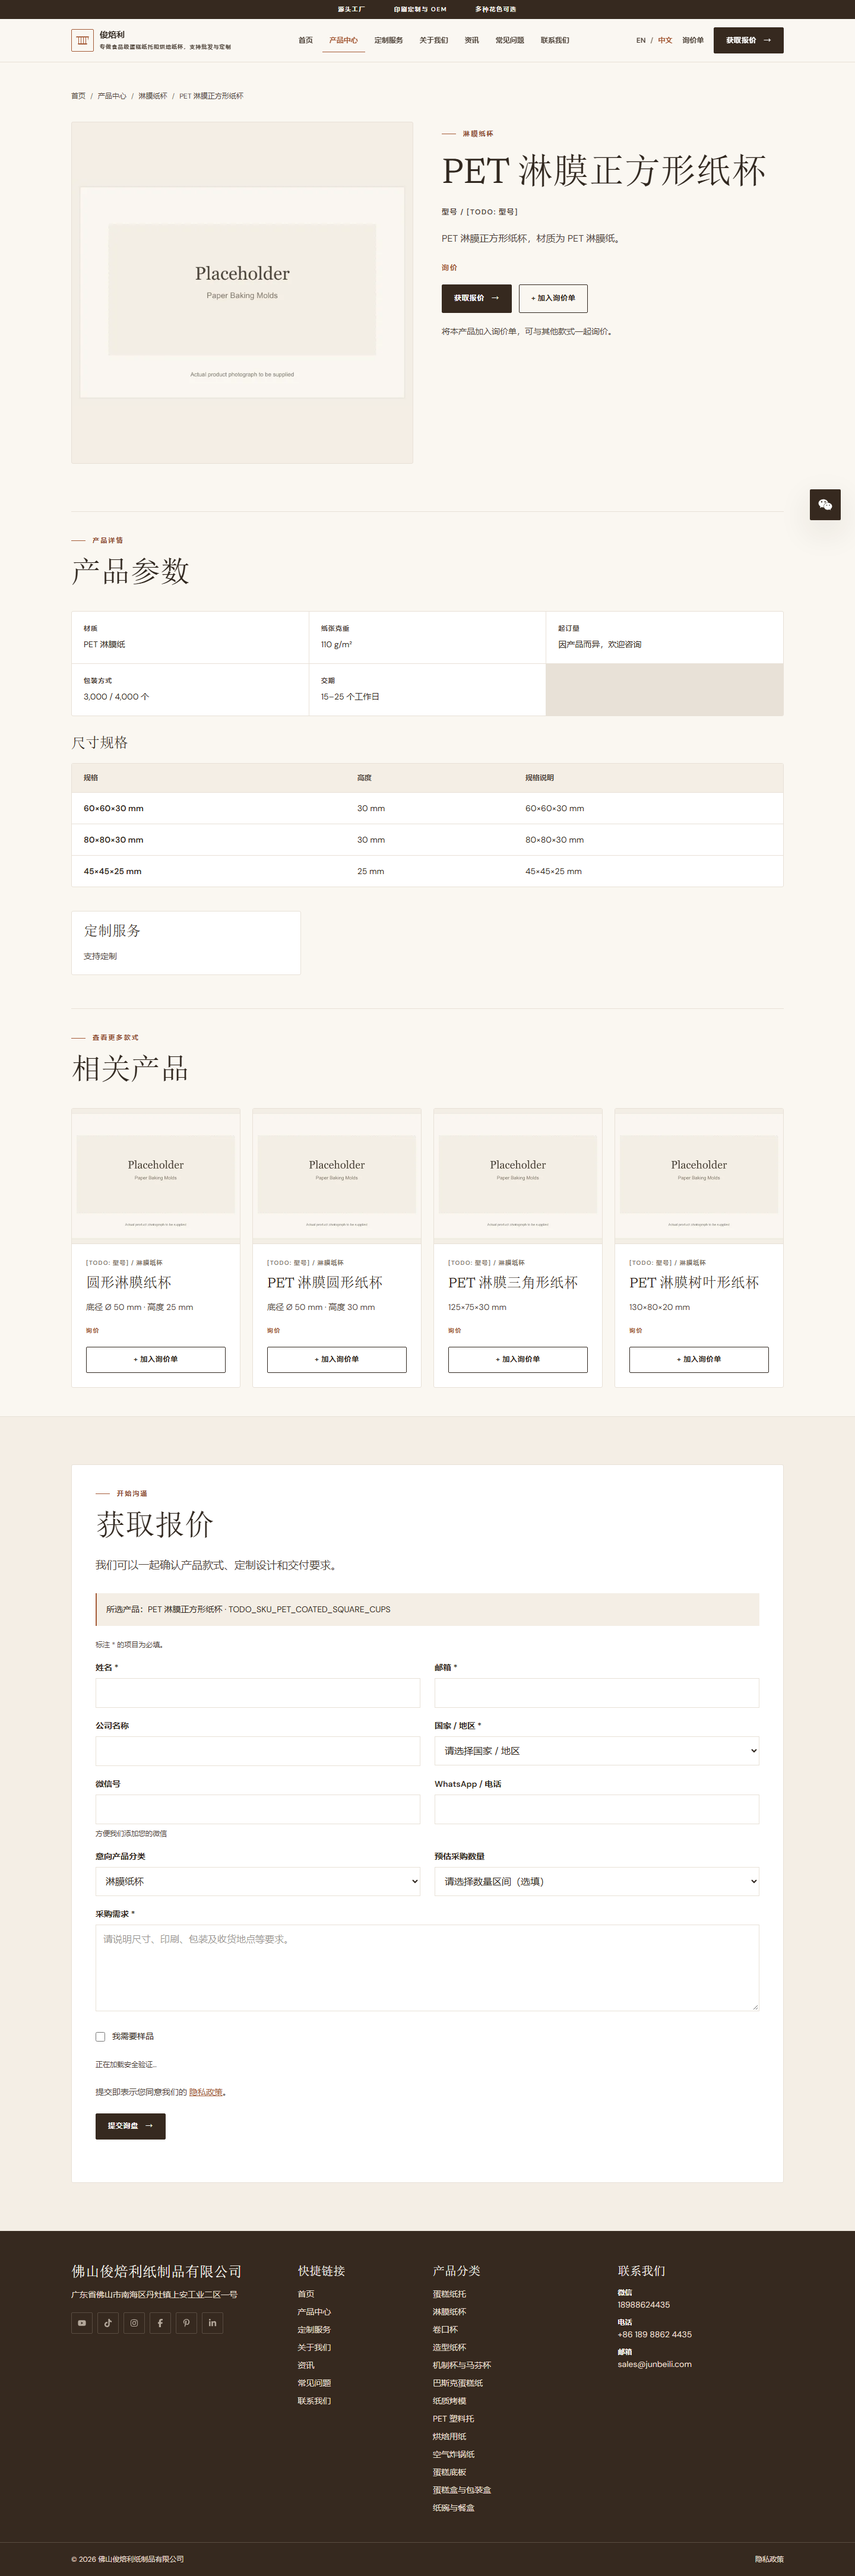
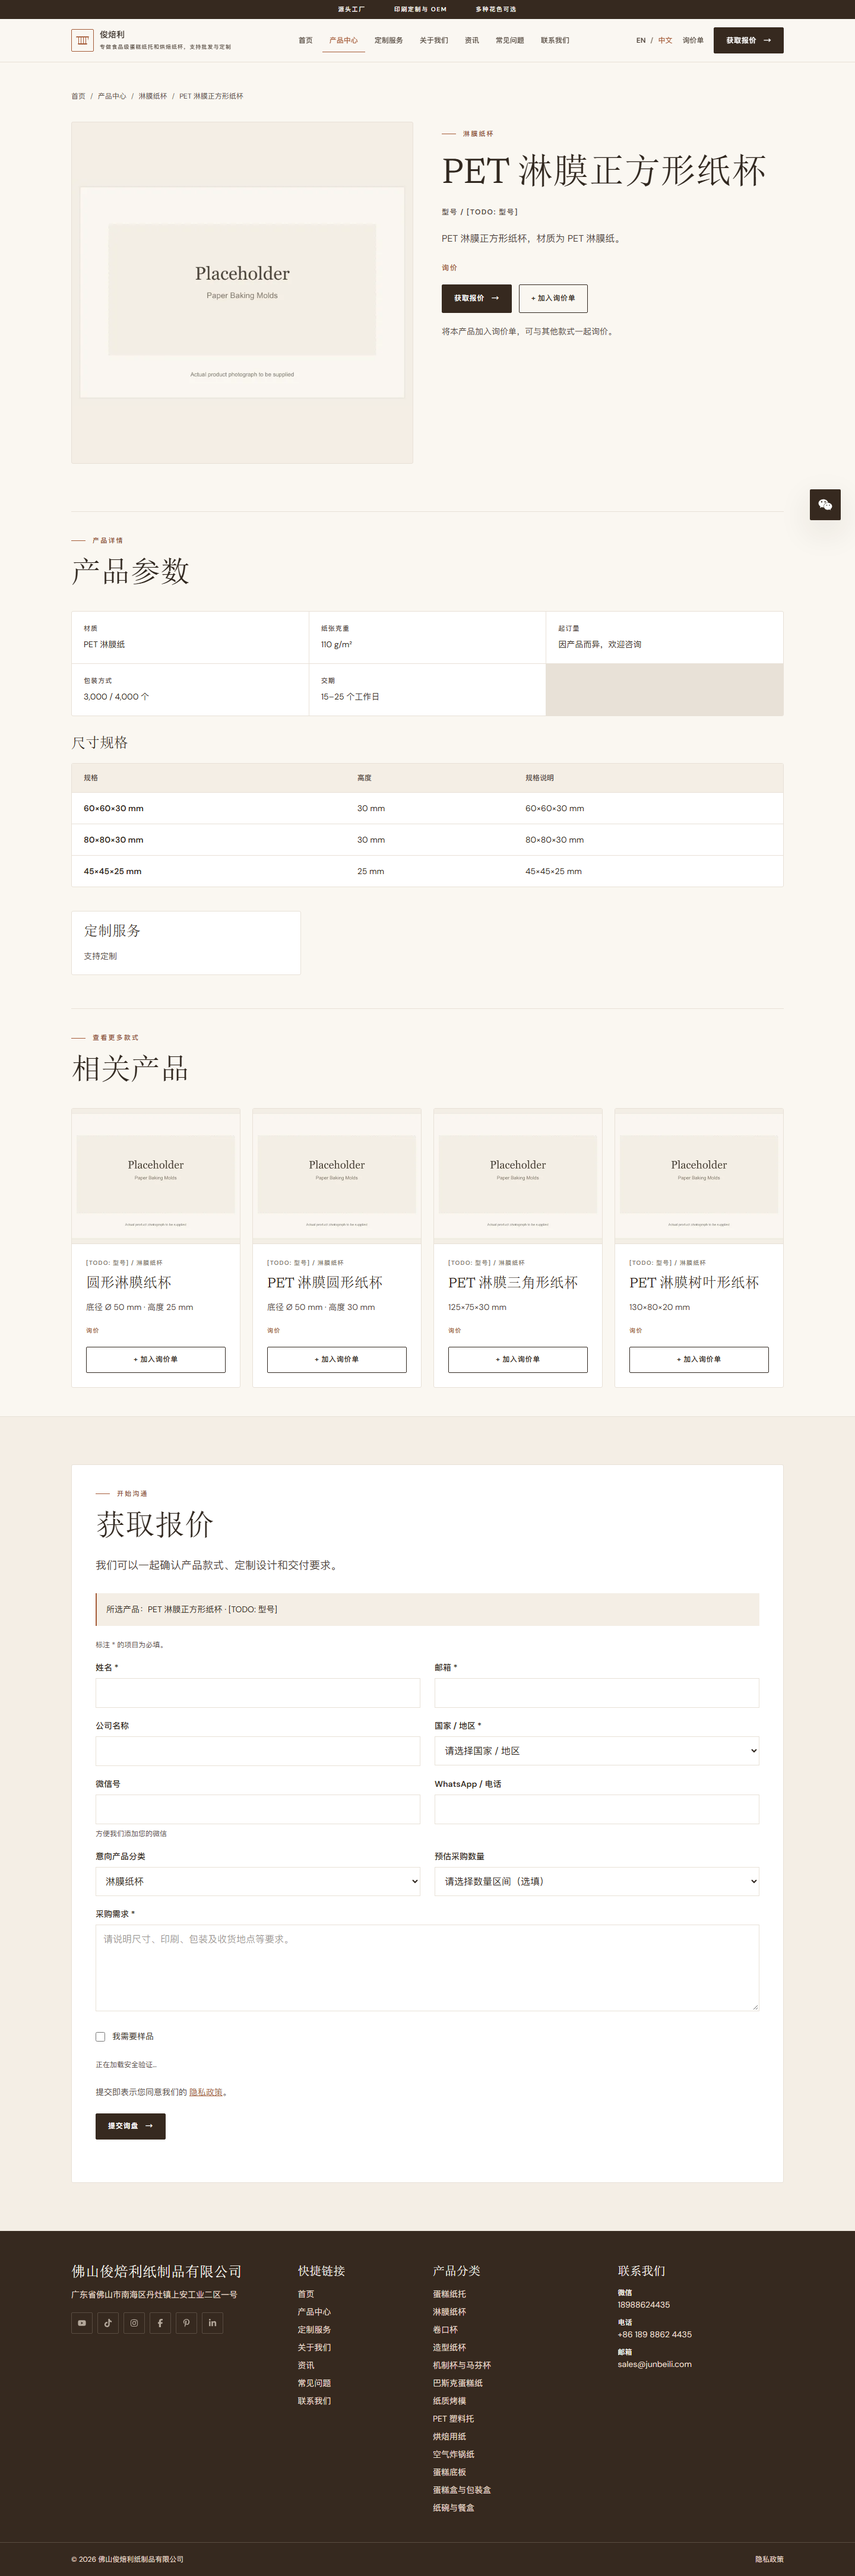
docs: record M9 Workers preview and review screenshots

diff --git a/docs/reviews/M9.md b/docs/reviews/M9.md
@@ -1,8 +1,8 @@
 # M9 审核报告：产品与公司资料批量导入
 
 - 分支：`m9-product-import`
-- PR：创建后补录
-- 预览地址：待 Workers Builds 部署
+- PR：[PR #16](https://github.com/pengshang01-cyber/dulizhan/pull/16)
+- 预览地址：[M9 Workers 预览](https://m9-product-import-dulizhan.pengshang01.workers.dev)
 - 提交时间：2026-11-22
 
 ## 1. 完成情况
@@ -14,7 +14,7 @@
 | 3 | 保留尺寸、材质与报价边界 | 完成 | 同类目内按材质、形状和颜色工艺合并。贴合已有尺寸的报价去重并补装箱条件，尺寸或材质有实质差异的条目各自保留。 |
 | 4 | 图片清单与清理 | 完成 | 每个产品沿用分类占位图；`docs/import/images-needed.md` 共 118 项。三个示例和旧分类 JSON 已移除，博客草稿、截图路由与测试改用现行产品。仍被历史审核样例引用的图片保留。 |
 | 5 | 导入脚本及 CMS | 完成 | `npm run import:products` 校验来源表头、类目和唯一分组。更新内容 schema、产品页面、Pages CMS 与 `docs/CMS.md`。 |
-| 6 | 检查、预览与报告 | 本地完成 | 六项检查及 12 张本地截图已通过，Workers 预览地址和线上截图待补。 |
+| 6 | 检查、预览与报告 | 完成 | 六项检查、GitHub CI 与 Workers Builds 通过，已在 PR 预览重新截取 12 张审核截图。 |
 
 ### 合并前后数量
 
@@ -61,7 +61,8 @@
 - [x] 连续两次导入后比较 JSON、CSV 与图片清单的 SHA-256，文件内容一致。
 - [x] 构建产物的 HTML 未匹配到原始图册页码、报价单行号、待核对措辞或本地店铺路径。中英博客草稿保留草稿状态。
 - [x] `allowIndexing` 为 `false`，构建中 285 页均含 noindex，sitemap 页面数为 0。
-- [ ] Workers PR 预览及 1440／375px 截图待验证。
+- [x] PR 实现提交 `2147f5d` 的 GitHub CI 和 Workers Builds 同时成功。[PR 检查](https://github.com/pengshang01-cyber/dulizhan/pull/16/checks)
+- [x] 用 375px 浏览器实测中英文首页、中文产品中心和方形详情，均为 HTTP 200，页面宽度检查通过。响应头含 `X-Robots-Tag: noindex`，`/robots.txt` 含 `Disallow: /`。
 
 ```text
 [build] 285 page(s) built
@@ -78,7 +79,7 @@ TODO report: 138 JSON; 314 待补字段; 133 占位图引用; 7 空图片位; 0 
 
 ## 3. 截图
 
-`npm run screenshots -- M9` 已在本地 Astro 构建运行。六页各在 1440 × 900 和 375 × 812 浏览器视口打开，HTTP 200。英文产品中心显示 118 个产品，两张详情分别显示 7 组圆形规格和 3 组方形规格。中英文页面均通过文档宽度检查。
+将 `M9_PREVIEW_URL` 设为上方地址后运行 `npm run screenshots -- M9`。以下 12 张截图来自 Workers PR 预览，存于 [截图目录](M9/)。六页各在 1440 × 900 和 375 × 812 浏览器视口打开，HTTP 200。英文产品中心显示 118 个产品，两张详情分别显示 7 组圆形规格和 3 组方形规格。中英文页面均通过文档宽度检查。
 
 | 页面 | Desktop | Mobile |
 | --- | --- | --- |
@@ -132,4 +133,4 @@ TODO report: 138 JSON; 314 待补字段; 133 占位图引用; 7 空图片位; 0 
 
 ## 7. 修改记录
 
-- 2026-11-22 初版导入。等待 PR 预览部署后补充线上验证记录。
+- 2026-11-22 完成导入及本地检查，询盘表单的占位型号统一显示为本地化字段标签。PR 预览部署后回填地址、浏览器验证和截图。

diff --git a/docs/notes/status.md b/docs/notes/status.md
@@ -1,9 +1,9 @@
 # 当前状态
 
-更新：2026-11-17
+更新：2026-11-22
 
-- PR #13 已合并并部署，前端异步加载 / ready() 问题已修复；四页真实 token 验证证据见 docs/reviews/fix-turnstile.md。
-- 用户更新生产 TURNSTILE_SECRET_KEY 并部署后，真实提交仍显示 verification_failed。当前后端未暴露具体原因，不能认定为某一种配置错误或已解决。
-- 从 main 8b6feac 建立 fix-turnstile-server-validation；增加安全的错误码 / 状态诊断、日志及 Secret key 首尾空白处理；失败仍拒绝发信。
-- build、check、lint、300 项测试、SEO、链接检查与 Worker dry-run 均通过。审核报告 docs/reviews/fix-turnstile-server.md；PR #14 已提交待审核：https://github.com/pengshang01-cyber/dulizhan/pull/14 。
-- 下一步：审核合并诊断 PR，生产部署后让用户提供 inquiry 响应中的 verification；不读取密钥，不代用户提交真实询盘。
+- M8 已通过 PR #15 合并，正式域名为 `https://junbeili.com`。
+- M9 从含工厂工作簿的 main `fd6d242` 创建 `m9-product-import`。PR #16 已创建待审核。[M9 PR](https://github.com/pengshang01-cyber/dulizhan/pull/16)
+- 354 条中纳入 342 条，导入 13 个分类、118 个产品及 339 个尺寸或选项。工厂工作簿移至 `data-import/junbeili-products.xlsx`，导入说明见 `docs/import/`。
+- 六项检查与 312 项测试通过，重复导入得到相同文件。已从 Workers PR 预览截取 12 张审核截图并实测禁收录响应。[M9 审核报告](../reviews/M9.md)
+- 待工厂按图片清单补实拍，核对报告列出的规格和缺型号项。工厂资料确认完成后按 `docs/LAUNCH.md` 操作，当前收录开关为 `false`。

diff --git a/docs/notes/history.md b/docs/notes/history.md
@@ -80,3 +80,7 @@
 PR #13 已合并，生产站采用 onload 加载器。用户按指引更新 TURNSTILE_SECRET_KEY 并部署后仍复现 verification_failed。为避免凭通用提示猜测，创建 fix-turnstile-server-validation，加入官方错误码白名单 / HTTP 状态 / 异常类型诊断及密钥首尾空白处理；保留验证失败禁止发信。新增 16 项测试，总计 300 项通过，尚待部署后的实际错误码确定根因。
 
 - 诊断修复提交 9c31853，PR #14：https://github.com/pengshang01-cyber/dulizhan/pull/14 。生产排障需审核部署后取得真实 verification 错误码，尚未宣称根因已解决。
+
+## 2026-11-22 M9 产品与公司资料批量导入
+
+从 main fd6d242 创建 m9-product-import。工厂工作簿原样移入 data-import，使用确认的公司资料、13 个分类和 118 个产品。354 条原始记录中纳入 342 条，形成 339 个尺寸或选项。保留逐行合并方案和图片清单。六项检查、312 项测试、重复导入、GitHub CI 和 Workers PR 预览均通过。PR #16 实测双语页面、375px 和 noindex 响应并记录 12 张预览截图。继续等待工厂照片、型号和待核对规格。PR：https://github.com/pengshang01-cyber/dulizhan/pull/16 。

diff --git a/docs/notes/decisions.md b/docs/notes/decisions.md
@@ -22,3 +22,5 @@
 - 博客图片媒体库 src/assets/images/blog，写入相对路径 ../../assets/images/blog；标签双语，相关产品引用 slug。正文仅构建时渲染并优化图片。
 - 无有效 GA ID 时不渲染 Cookie 横幅及页脚 / 隐私页入口；有效 ID 保留原同意流程。浏览器只导入 placeholders 纯工具，site.ts 保留再导出以避免下发配置校验。
 - links:check 纳入 CI；todo:report 仅改上线清单自动区域，保留人工检查；M7.5 起首页主图、车间图库、Logo、默认分享图与视频封面统一在“网站设置”维护，图片留空恢复默认；Lighthouse 原始报告不提交。
+
+- M9 工厂工作簿归档于 `data-import/`。导入工具先提供逐行预览，同一来源重跑会覆盖同网址片段条目。网站运行时继续只从内容集合读取产品。报价的起订量、装箱和外箱仅用于对应尺寸，内部备注留在审核材料；缺少的产品级起订量和交期使用网站设置的说明。
